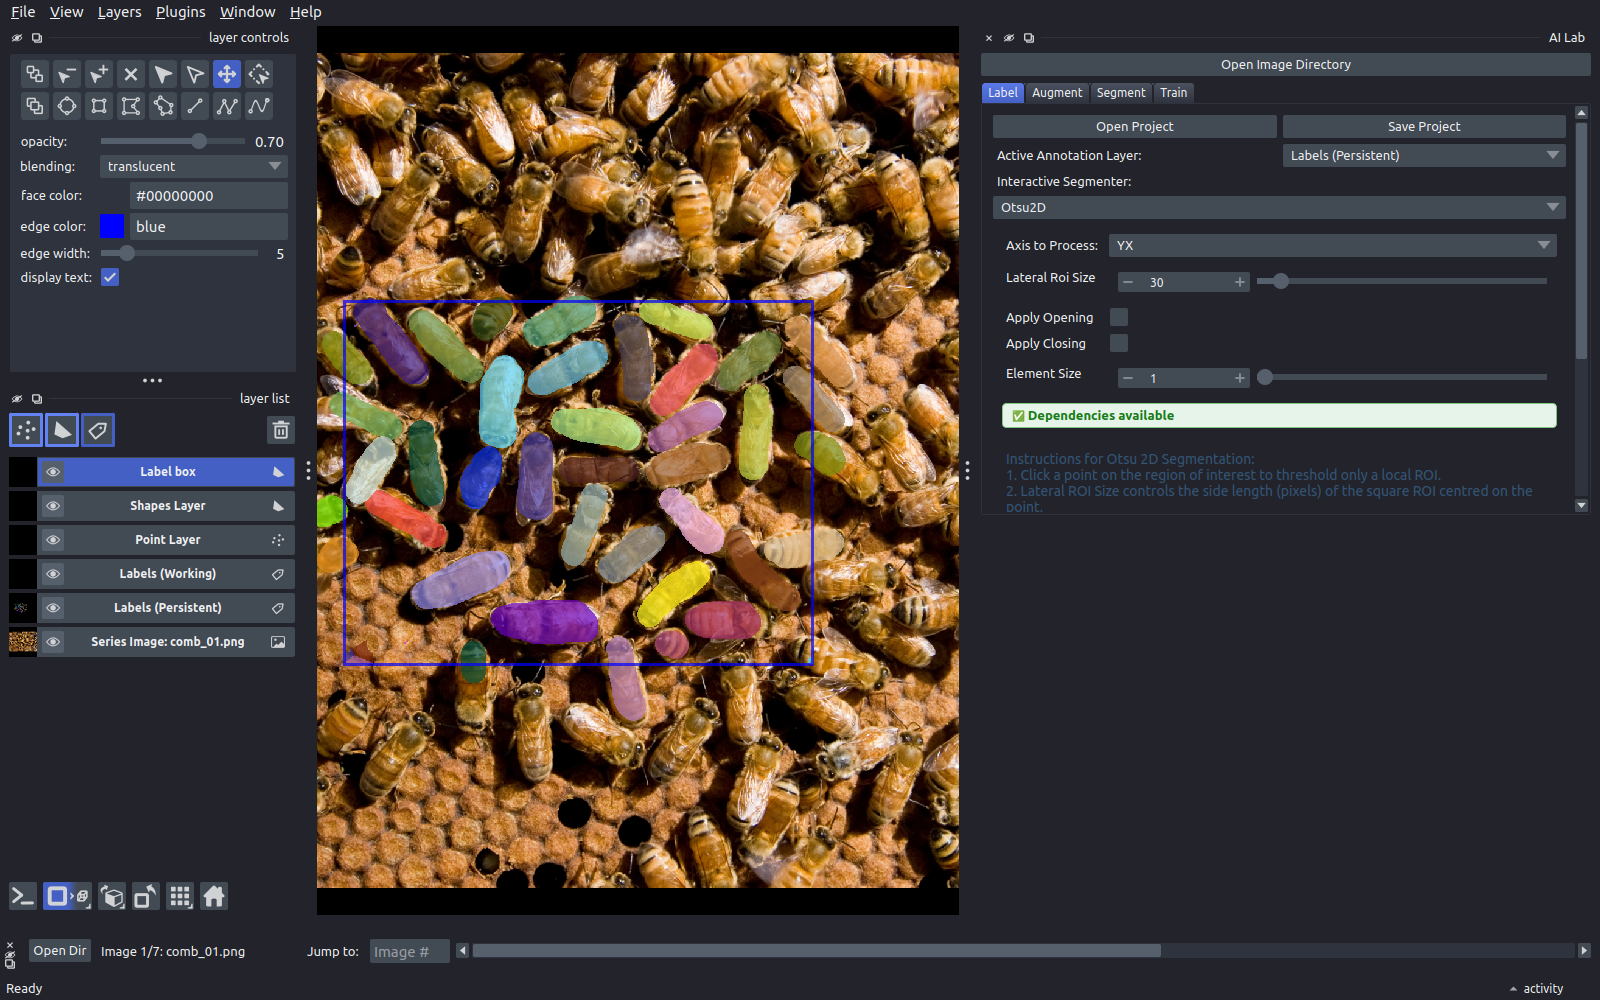
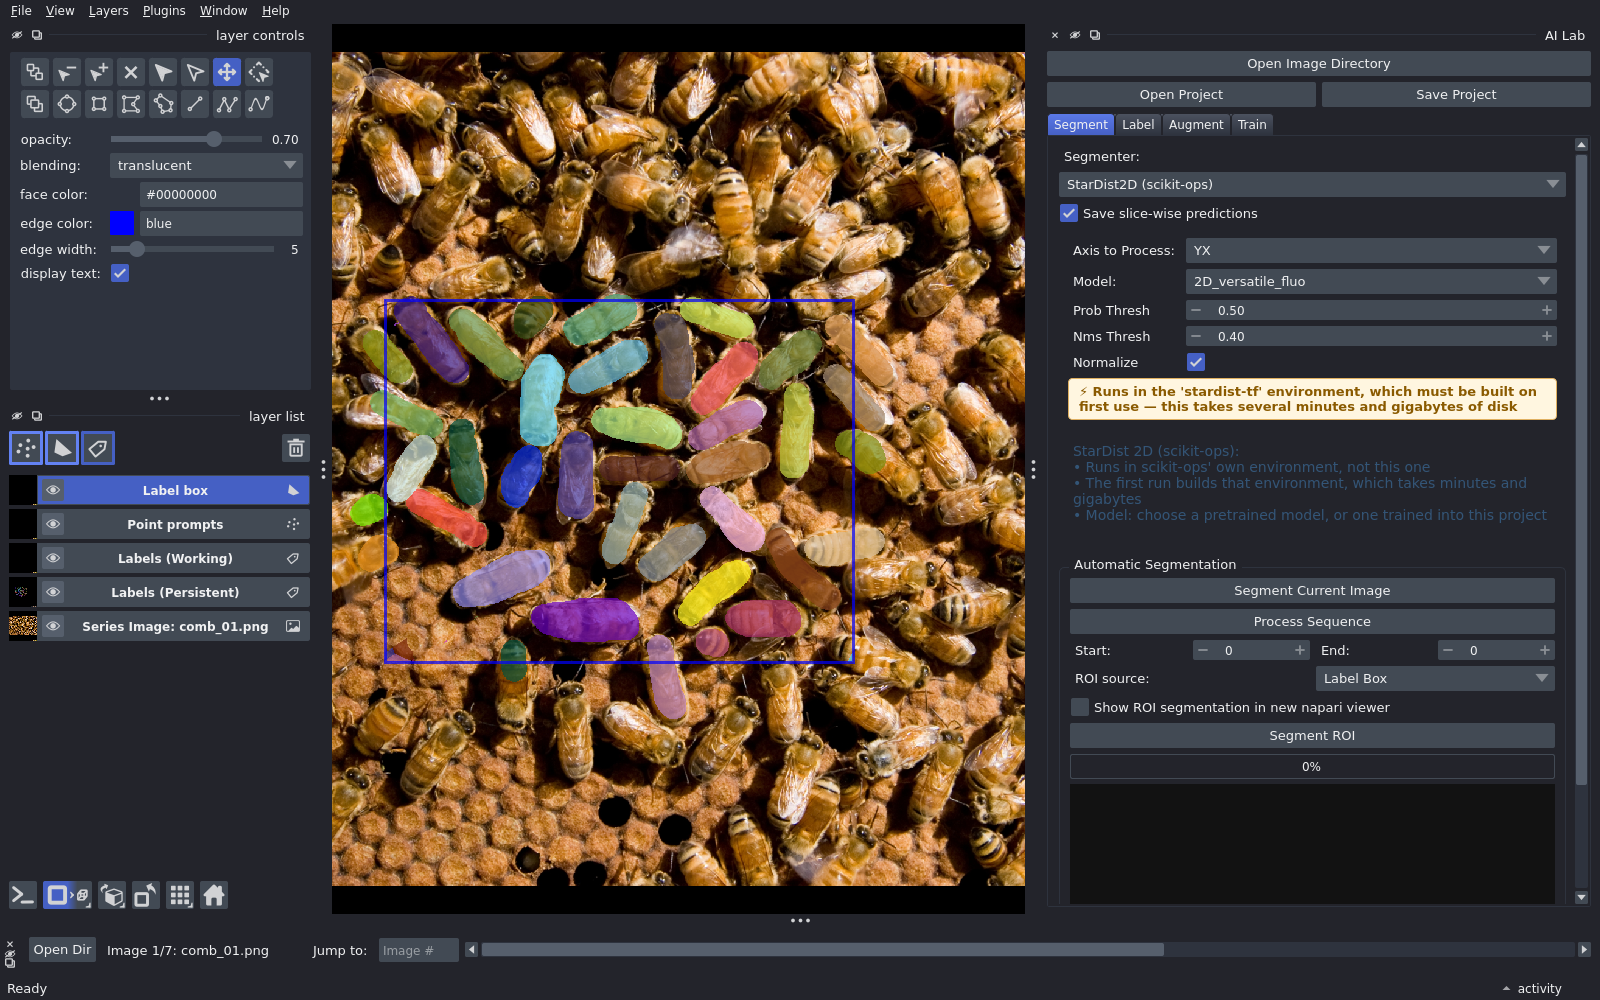
Docs: Install, Get data, Launch, Segment and Label pages, with screenshots
Install covers napari hub (coming), pip/conda and pixi. Get data is about
organising a project folder. Launch has the menu, Python and pixi routes
with the shared settings. Segment and Label pages get real steps, and the
nav puts Segment first, as the tabs now do.

diff --git a/docs/segment.md b/docs/segment.md
@@ -1,20 +1,45 @@
 # Segment
 
-*From notebooks 19, 20, 22.*
+Try a ready-made model first. If it works on all your images, you are done.
 
-## Quick try
+![The Segment tab with the segmenter list open](images/segment_tab.png)
 
-- Cellpose 3, Cellpose SAM.
-- StarDist.
+## Steps
 
-## Cellpose built-in models
+1. Open your project. See [Launch](launch.md).
+2. **Segment** tab: choose a segmenter (StarDist, Cellpose 3, Cellpose 4, ...).
+    - Check the banner under the settings. Green: ready to run. Red: not installed.
+      Yellow: scikit-ops will install it in its own environment on first use.
+3. Choose a model and adjust the settings.
+4. **Segment Current Image**. The result is a new layer named after the segmenter.
+5. **Process Sequence** runs every image, or set **Start** and **End** for a range.
+6. Step through the images with the Sequence Viewer and check them.
 
-- How big is a bee?
-- Cellpose 3 vs Cellpose 4.
-- Visualize and compare.
+## Good to know
 
-## CellCast
+- A yellow segmenter builds its environment on the first run. This may take a
+  few minutes to install and may require a few gigabytes of free disk space.
+  Green ones run in AI Lab's environment, or one already built.
+- Results are saved in the project's `predictions/` folder, one folder per segmenter.
+- **Segment ROI** runs only inside your label boxes. Quick for trying settings.
+- The model list includes models you trained in this project.
 
-- Add it.
-- Run it.
-- Compare with StarDist.
+## Settings to adjust
+
+- **Cellpose diameter**: the typical object size in pixels. If it's too small,
+  larger objects can be split or missed. If it's too large, small objects can be
+  missed or merged. It's very important in Cellpose 3, less so in Cellpose 4,
+  but it still needs tweaking in some cases.
+- **Cellpose flow_threshold**: a quality check on the finished masks. Cellpose
+  compares the flows of each mask with the flows the network predicted, and
+  removes masks where they differ by more than the threshold. Raise it to keep
+  more objects, including irregular ones. Lower it to keep only the clean ones.
+- **Cellpose cellprob_threshold**: lower it to keep more (and larger) objects,
+  raise it to keep fewer.
+- **StarDist prob_thresh**: lower it to find more objects.
+- **StarDist nms_thresh**: raise it to allow objects to overlap more.
+
+## Not good enough?
+
+- Copy the predictions into your labels and fix the mistakes.
+- Then [Label](label.md), [Augment](augment.md) and [Train](train.md).

diff --git a/docs/launch.md b/docs/launch.md
@@ -1,28 +1,71 @@
 # Launch
 
-*From notebooks 14, 30, 58.*
-
-## What AI Lab does
-
-- TODO
+The goal: AI Lab open on your own project folder.
 
 ## Choose the project
 
-- TODO
+- A folder of your images. See [Get data](get-data.md).
+- New to AI Lab? Start with an example set: bees, pollen or ladybugs.
 
-## Launch
+## The settings
 
-- From napari menu.
-- From Python.
-- From command line.
+The same settings apply whichever way you launch.
 
-## Why those arguments
+| setting | usual value | why |
+|---|---|---|
+| viewer type | `sequence` | images can differ in size. Use `stacked` only if they are all the same size |
+| axes to collapse | `C` | colour is not an axis you label along, so labels are 2D per image. Blank for greyscale |
+| axis types | `NYXC` | N images, each Y by X, with colour. Blank to detect automatically |
+| profile | `2d-instance` | which segmenters and tools appear. `2d-detect` for boxes, `all` for everything |
 
-- TODO
+## 1. From the napari menu
+
+- **Plugins → Napari AI Lab → 2D Instance AI Lab**. The entry picks the
+  profile: **2D Detect AI Lab** for boxes, **ND AI Lab** for everything.
+- Click **Open Project**.
+- **Browse...** to your folder, fill in the settings, click **OK**.
+
+![The Open Project dialog](images/open_project_dialog.png)
+
+> **SCREENSHOT TODO:** Plugins menu
+
+## 2. From Python or a notebook
+
+```python
+import napari
+from napari_ai_lab.apps.nd_ai_lab_launcher import launch_nd_ai_lab
+
+project = "/path/to/my/images"
+
+viewer = napari.Viewer()
+launch_nd_ai_lab(
+    viewer,
+    project,
+    viewer_type="sequence",
+    axes_to_collapse="C",
+    axis_types="NYXC",
+    profile="2d-instance",
+)
+napari.run()  # in a script; leave out in a notebook
+```
+
+## 3. With a pixi task
+
+Handy for a project you open often.
+
+- Save the Python above as `launch_cells.py` next to your `pixi.toml`.
+- Add a task to `pixi.toml`:
+
+```toml
+[tasks]
+cells = "python launch_cells.py"
+```
+
+- Then, from that folder: `pixi run cells`.
 
 ## Using it
 
-- Sequence Viewer moves between images.
-- AI Lab dock on right.
+- **Sequence Viewer**, at the bottom: moves between images.
+- **AI Lab**, on the right: Segment, Label, Augment and Train tabs.
 
-![AI Lab](images/ai_lab.png)
+![AI Lab](images/ai_lab_open.png)

diff --git a/docs/install.md b/docs/install.md
@@ -1,28 +1,64 @@
 # Install
 
-*From notebooks 10, 15, 17.*
+- NVIDIA GPU: good test coverage.
+- Mac M-series: good reports.
+- AMD GPUs: not tested.
+- CPU: should work, but can be slow.
 
-## Install pixi
+Models (Cellpose, StarDist, ...) are not installed up front. AI Lab runs them
+through [scikit-ops](https://github.com/apposed/scikit-ops), which builds each
+model's environment the first time you use it. That first run takes several
+minutes.
 
-- TODO
+## 1. napari hub
 
-## Check the installation
+!!! note "Coming soon"
+    Waiting on scikit-ops being published to PyPI.
 
-- Import skop and napari_ai_lab.
-- What about microsam?
+## 2. pip and conda
 
-## Run an op
+scikit-ops is not on PyPI yet, so it is installed from GitHub.
 
-- What is an op?
-- What is a runner?
+```sh
+conda create -n napari-ai-lab -c conda-forge python=3.12 napari pyqt
+conda activate napari-ai-lab
+pip install "scikit-ops @ git+https://github.com/apposed/scikit-ops@69771a9"
+pip install napari-ai-lab albumentations
+```
 
-## Build the environments
+For interactive SAM, also install micro-sam (several GB):
 
-- What do we have?
-- minimal, cellpose3, pytorch, stardist-tf.
-- Check again.
+```sh
+conda install -c conda-forge micro_sam
+```
 
-## Test the GPU
+## 3. pixi
 
-- PyTorch sees the GPU?
-- StarDist sees the GPU?
+[Install pixi](https://pixi.sh/latest/installation/), then reopen the terminal
+so `pixi` is on the path.
+
+Pick one environment and download its `pixi.toml` into an empty folder:
+
+- **microsam**: includes interactive SAM. Several GB, mostly torch and CUDA.
+- **lite**: no SAM. Much smaller.
+
+```sh
+mkdir napari-ai-lab
+cd napari-ai-lab
+curl -O https://raw.githubusercontent.com/True-North-Intelligent-Algorithms/napari-ai-lab/main/pixi/install/microsam/pixi.toml
+pixi run napari
+```
+
+For lite, replace `microsam` with `lite` in the URL. The first
+`pixi run` installs everything; later runs start straight away.
+
+## Check it worked
+
+In napari: **Plugins → Napari AI Lab** lists ND AI Lab, 2D Instance AI Lab and
+2D Detect AI Lab.
+
+## Learn more: the I2K 2026 tutorial
+
+AI Lab is built on scikit-ops. The
+[I2K 2026 tutorial](https://github.com/bnorthan/i2k-2026) teaches both through
+notebooks, and installs AI Lab along the way.

diff --git a/docs/label.md b/docs/label.md
@@ -1,19 +1,42 @@
 # Label
 
-*Done by hand in AI Lab.*
+## The layers you use
 
-## Annotations, labels, patches
+| layer | what it is for |
+|---|---|
+| **Labels (Persistent)** | your labels. Draw here. Saved with the project |
+| **Label box** | marks areas you are happy with. Only labels inside a box are used for training |
+| **Point prompts** | clicks for interactive segmentation (SAM) |
+| **Labels (Working)** | interactive results, until you commit them to Labels (Persistent) |
 
-- Annotations: what you draw.
-- Labels: annotations inside boxes.
-- Patches: augmented labels.
+## Not everything you draw is used for training
 
-## Draw labels
+- Draw on Labels (Persistent) as much as you like. It is all saved, finished or not.
+- When every object in an area is labelled, put a label box around it.
+- Only boxed areas train. Unlabelled objects inside a box count as background.
 
-- Brush on Labels (Persistent).
-- SAM click, then commit.
+## Draw by hand
 
-## Label boxes
+- Select **Labels (Persistent)** in the layer list.
+- Paint with napari's brush and fill tools.
 
-- Box what you finished.
-- Save.
+![Painting on Labels (Persistent)](images/label_paint.png)
+
+## Draw with SAM
+
+Needs the **microsam** install.
+
+- **Label** tab: choose **SAM3D** as the interactive segmenter.
+- Select **Point prompts** and click an object. The result appears on
+  **Labels (Working)**.
+- Press **k** (or **Commit**) to keep it on Labels (Persistent).
+- Press **n** to switch the next point between positive and negative.
+- The first click on an image computes SAM's embedding, which takes 20 to 60
+  seconds. After that, clicks are fast.
+
+![A SAM click on Labels (Working)](images/label_sam.png)
+
+## Mark finished areas
+
+- Select **Label box** and draw a rectangle around an area you have finished.
+- **Save Project**. AI Lab also saves when you switch images or close.

diff --git a/docs/get-data.md b/docs/get-data.md
@@ -1,22 +1,40 @@
 # Get data
 
-*From notebook 12.*
+## Use your own images
 
-## Get the images
+Put the images you want to work on in one folder. That folder is your project.
 
-- TODO
+- Only images in the folder, nothing else.
+- Types: `.tif`, `.png`, `.jpg`, `.bmp`, `.czi`.
+- Sizes can differ from image to image.
+- Include the hard images, not just the easy one.
 
-## Small data (optional)
+AI Lab treats the folder as a sequence and steps through it image by image.
+The point is to find out whether a model works on all your images, not just
+the first one you tried.
 
-- TODO
+## What AI Lab adds
 
-## Load one back
-
-- TODO
-
-## The project folder
-
-- One folder of images.
-- AI Lab adds folders beside them.
+AI Lab never changes your images. It adds folders beside them as you work.
+This is a bees project after some labelling and one training run:
 
 ![The bees project folder](images/project_organization.png)
+
+- **annotations**: the labels you draw, one file per image.
+- **labels**: the parts of your annotations inside a label box. Only these are
+  used for training.
+- **patches**: training data made from the labels by augmentation.
+- **models**: one per training run.
+- **embeddings**: SAM's cache. Safe to delete; it is rebuilt when needed.
+
+## Example data
+
+To try AI Lab before using your own images, download the examples from the
+[I2K 2026 tutorial](https://github.com/bnorthan/i2k-2026):
+
+- **pollen**: easiest.
+- **bees**: medium. Needs some training to find bees and not honeycomb cells.
+- **ladybugs**: hard.
+
+[Download the example data (zip)](https://www.dropbox.com/scl/fo/ock3qfwx11mvbfuih0hsc/AGk9LFOqnfm3HG_zw22vIv8?rlkey=aaoac1euyg89hpadnms96e2c9&st=4ck6sxe3&dl=1).
+Each set is its own folder, ready to open as a project.

diff --git a/docs/index.md b/docs/index.md
@@ -3,12 +3,13 @@
 !!! warning "Under construction"
     Very new. Expect changes.
 
-![AI Lab after opening the bees project](images/ai_lab_open.png)
-
 ## What AI Lab does
 
-- Folders of images, one sequence.
-- Draw labels, or click SAM.
+- Load a folder of images as a sequence.
+- Segment with popular models such as Cellpose and micro-sam.
+- Not good enough? Draw labels, or click with SAM.
 - Label boxes mark finished areas.
-- Augment, train, predict.
-- Fix mistakes, retrain.
+- Augment to add training data.
+- Train a model.
+
+![AI Lab after opening the bees project](images/ai_lab_open.png)
